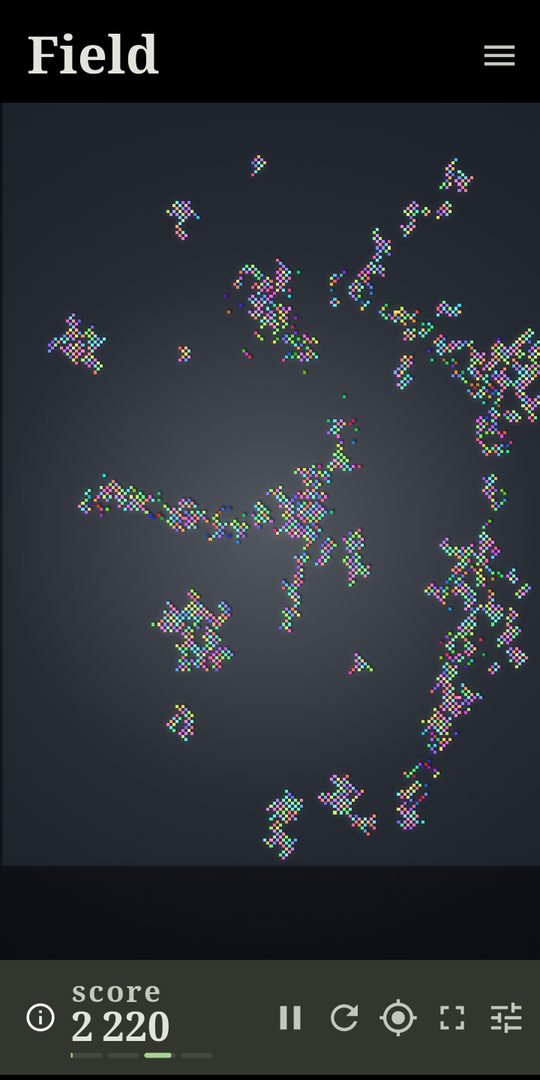
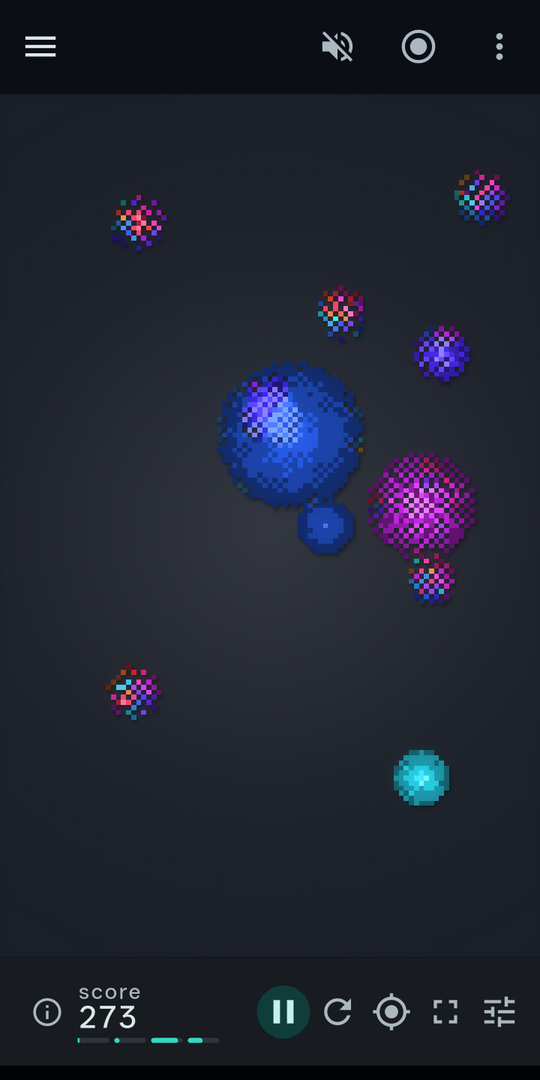
The website, rendered by publish_policy.py
From laminae-console 1737a93 (the privacy policy), laminae-model 0ecf362 (build_site.py: the pages and their styles) and laminae-design-system 714b1e9 (the images).

diff --git a/privacy/index.html b/privacy/index.html
@@ -41,7 +41,8 @@ p, ul, ol { margin: 0 0 14px; }
 .btn.primary:hover { background: var(--ink); color: var(--bg); }
 .feature { display: block; width: 100%; height: auto; border-radius: 14px; border: 1px solid var(--rule); margin: 18px 0 10px; box-shadow: 0 10px 40px rgba(52,216,196,.08); }
 .card { background: var(--panel); border: 1px solid var(--rule); border-left: 4px solid var(--accent, var(--teal)); border-radius: 12px; padding: 18px 20px; margin: 16px 0; }
-.shots { display: grid; grid-template-columns: repeat(auto-fit, minmax(150px, 240px)); gap: 16px; margin: 16px 0; }
+.shots { display: grid; grid-template-columns: repeat(4, 1fr); gap: 16px; margin: 16px 0; }
+@media (max-width: 640px) { .shots { grid-template-columns: repeat(2, 1fr); } }
 .shots img { width: 100%; height: auto; border-radius: 14px; border: 1px solid var(--rule); }
 .badge { display: inline-block; font-size: 13px; font-weight: 650; color: var(--pink); border: 1px solid currentColor; border-radius: 999px; padding: 2px 12px; margin-bottom: 10px; }
 .facts { display: grid; grid-template-columns: repeat(auto-fit, minmax(190px, 1fr)); gap: 12px; margin: 18px 0; padding: 0; list-style: none; }
@@ -84,14 +85,14 @@ footer.site .wrap { display: flex; flex-wrap: wrap; gap: 6px 18px; justify-conte
 <hr>
 <h2>What the microphone is used for</h2>
 <p>This matters more than any other part of the policy, so it is set out in full.</p>
-<p><strong>While the sound is on, the app has the microphone open.</strong> From each short slice of audio it works out four numbers: how loud the slice is, how high its peak is, how much of it is the app's own output coming back through the speaker, and what share of it sits at the notes the field is playing. It does not keep the sound, and it does not keep those numbers.</p>
+<p><strong>While the sound is on, or while you have chosen the microphone to drive the field, the app has the microphone open.</strong> From each short slice of audio it works out four numbers: how loud the slice is, how high its peak is, how much of it is the app's own output coming back through the speaker, and what share of it sits at the notes the field is playing. It does not keep the sound, and it does not keep those numbers.</p>
 <p><strong>Those numbers move the field only if you choose the microphone.</strong> In the field's settings, under <em>Chaos from</em>, the choice starts on <em>The field's own generator</em>. If you choose <em>The microphone</em>, a loud, sharp sound (a clap, a knock, a tap) puts a burst of energy into the field at a random place, in proportion to how hard it was, and the steady change in the room's level acts on the field as a kind of wind. The choice goes back to the field's own generator each time the app starts. While the sound is on and the microphone is not chosen, the microphone is open and nothing from it moves the field.</p>
 <p><strong>The audio check, on the Diagnostics screen, stores the room's loudness.</strong> It runs only when you start it. For the few seconds it runs it plays a test tone and some clicks, and it stores the room's loudness, one number between 0 and 1, sealed, at most once a second. No audio is stored. If no key is available, the check stores nothing rather than store it unsealed.</p>
 <p><strong>A recorded take is different.</strong> If you use the mixer to record, real audio is written to a file. See "Recording, and the plain copy" below.</p>
 <hr>
 <h2>Permissions, and what each one is for</h2>
 <p>These are the permissions the released build declares.</p>
-<table><thead><tr><th>Permission</th><th>What it is for</th><th>What is kept</th><th>Does it go over a network?</th></tr></thead><tbody><tr><td><strong>Microphone</strong> (<code>RECORD_AUDIO</code>)</td><td>To let the room drive the field if you choose it, to run the audio check, and to record a take if you ask for one. You are asked for this the first time you switch the sound on, not when you open the app.</td><td>Nothing, unless you run the audio check (the room's loudness, sealed, while it runs) or record a take.</td><td>No. The app has no network permission.</td></tr><tr><td><strong>Microphone while in the background</strong> (<code>FOREGROUND_SERVICE_MICROPHONE</code>)</td><td>So the sound keeps going while you are in another app or the screen is off. <strong>This means the microphone can be open while Aesthesia is in the background.</strong> It applies only while the sound is on.</td><td>Nothing of its own.</td><td>No.</td></tr><tr><td><strong>Background service</strong> (<code>FOREGROUND_SERVICE</code>, <code>FOREGROUND_SERVICE_SPECIAL_USE</code>)</td><td>To keep the app's one background service running, so the field and its sound carry on when you leave the app, and so a timer you start keeps its times.</td><td>Nothing of its own.</td><td>No.</td></tr><tr><td><strong>Notifications</strong> (<code>POST_NOTIFICATIONS</code>)</td><td>To show the ongoing notification that tells you the service is running. You are asked the first time you open the app (Android 13 and later); if you decline, the service still runs but the notification does not appear. It reads <strong>Listening</strong> while the microphone is open and <strong>Collating</strong> when it is not. It is titled <strong>Aesthesia</strong>, and so is its entry in Android's notification settings.</td><td>Nothing.</td><td>No.</td></tr><tr><td><strong>Fingerprint or screen lock</strong> (<code>USE_BIOMETRIC</code>)</td><td>So Android can confirm it is you before a vault secret is shown. The app never sees your fingerprint, your face or your PIN. Android answers yes or no.</td><td>Nothing.</td><td>No.</td></tr><tr><td><strong>Storage, Android 8 and 9 only</strong> (<code>WRITE_EXTERNAL_STORAGE</code>, capped at SDK 28)</td><td>Only to write a plain <code>.wav</code> copy of a take into the shared Music folder on older phones, and only when you ask for one. Android 10 and later never see this request.</td><td>The <code>.wav</code> file you asked for.</td><td>No.</td></tr></tbody></table>
+<table><thead><tr><th>Permission</th><th>What it is for</th><th>What is kept</th><th>Does it go over a network?</th></tr></thead><tbody><tr><td><strong>Microphone</strong> (<code>RECORD_AUDIO</code>)</td><td>To let the room drive the field if you choose it, to run the audio check, and to record a take if you ask for one. You are asked for this the first time you switch the sound on, not when you open the app.</td><td>Nothing, unless you run the audio check (the room's loudness, sealed, while it runs) or record a take.</td><td>No. The app has no network permission.</td></tr><tr><td><strong>Microphone while in the background</strong> (<code>FOREGROUND_SERVICE_MICROPHONE</code>)</td><td>So the sound keeps going while you are in another app or the screen is off. <strong>This means the microphone can be open while Aesthesia is in the background.</strong> It applies only while the sound is on or the microphone drives the field.</td><td>Nothing of its own.</td><td>No.</td></tr><tr><td><strong>Background service</strong> (<code>FOREGROUND_SERVICE</code>, <code>FOREGROUND_SERVICE_SPECIAL_USE</code>)</td><td>To keep the app's one background service running, so the field and its sound carry on when you leave the app, and so a timer you start keeps its times.</td><td>Nothing of its own.</td><td>No.</td></tr><tr><td><strong>Notifications</strong> (<code>POST_NOTIFICATIONS</code>)</td><td>To show the ongoing notification that tells you the service is running. You are asked the first time you open the app (Android 13 and later); if you decline, the service still runs but the notification does not appear. It reads <strong>Listening</strong> while the microphone is open and <strong>Collating</strong> when it is not. It is titled <strong>Aesthesia</strong>, and so is its entry in Android's notification settings.</td><td>Nothing.</td><td>No.</td></tr><tr><td><strong>Fingerprint or screen lock</strong> (<code>USE_BIOMETRIC</code>)</td><td>So Android can confirm it is you before a vault secret is shown. The app never sees your fingerprint, your face or your PIN. Android answers yes or no.</td><td>Nothing.</td><td>No.</td></tr><tr><td><strong>Storage, Android 8 and 9 only</strong> (<code>WRITE_EXTERNAL_STORAGE</code>, capped at SDK 28)</td><td>Only to write a plain <code>.wav</code> copy of a take into the shared Music folder on older phones, and only when you ask for one. Android 10 and later never see this request.</td><td>The <code>.wav</code> file you asked for.</td><td>No.</td></tr></tbody></table>
 <p>Android also gives the app one permission for its own internal use. It collects nothing.</p>
 <p><strong>No network permission ships in the released app.</strong> The build tool refuses to make a release whose final permission list includes internet access. (Development copies used at a desk carry it, as every project of this kind does; they are never published.)</p>
 <p><strong>Removed from this build, and therefore impossible here:</strong> location, activity recognition, calendar, app-usage statistics, network state, and every Health Connect reading. They belong to the full Laminae Console, which this app is made from, and this build removes them, along with the entries Health Connect uses to reach an app.</p>
@@ -103,12 +104,12 @@ footer.site .wrap { display: flex; flex-wrap: wrap; gap: 6px 18px; justify-conte
 <p><strong>Timers.</strong> If you turn a timer series on (on the <em>What is collected</em> screen) and start a run with the timer command, the app stores three numbers for that run: time elapsed, time remaining and progress. They are a clock you start, not anything about you, so they are kept unsealed. The switch goes back to off each time the app starts. The app's settings are also kept unsealed.</p>
 <hr>
 <h2>Recording, and the plain copy</h2>
-<p>When you record a take in the mixer, the app writes a sealed recording inside its own private folder. That file can only be read with the key on your phone. A take stops by itself after five minutes, and while one is recording the app shows a red dot and the time.</p>
+<p>When you record a take in the mixer, the app writes a sealed recording inside its own private folder. That file can only be read with the key on your phone. A take stops by itself after five minutes, and while one is recording the app shows a recording badge with the time.</p>
 <p>The mixer has a single <strong>plain copy</strong> switch, and it starts off.</p>
-<ul><li>With it <strong>off</strong>, the take exists only in sealed form, and no readable audio is written anywhere.</li><li>With it <strong>on</strong>, the app also writes an ordinary <code>.wav</code> file into your phone's shared <strong>Music/Laminae</strong> collection, so you can find it in a music or files app. That file is not encrypted. A working copy is made while the file is written and is deleted immediately afterwards.</li></ul>
+<ul><li>With it <strong>off</strong>, the take exists only in sealed form. To play a take back, the app writes a temporary readable copy inside its own private folder, which no other app can reach, plays it, and deletes it as soon as playback ends. Nothing is written to shared storage.</li><li>With it <strong>on</strong>, the app also writes an ordinary <code>.wav</code> file into your phone's shared <strong>Music/Laminae</strong> collection, so you can find it in a music or files app. That file is not encrypted. A working copy is made while the file is written and is deleted immediately afterwards.</li></ul>
 <p><strong>What the plain copy means in practice.</strong> Once a <code>.wav</code> is in the shared Music collection it is an ordinary file on your phone:</p>
 <ul><li>any other app that has permission to read audio or media can read it;</li><li>any cloud-sync, file-manager or backup app you have installed can copy it off the phone;</li><li>it stays on the phone if you uninstall Aesthesia or clear its data.</li></ul>
-<p>Aesthesia having no internet permission does not limit what the rest of your phone does with that file. If you would rather nothing readable existed, leave the plain copy switch off.</p>
+<p>Aesthesia having no internet permission does not limit what the rest of your phone does with that file. If you would rather no readable copy existed outside the app, leave the plain copy switch off.</p>
 <p><strong>Other people's voices.</strong> A recording made in a shared room may capture other people. Aesthesia does not know who is in the room and cannot ask them. If you record other people, it is for you to tell them and to handle the recording accordingly.</p>
 <hr>
 <h2>Controlling the app from a computer, in this test build</h2>

diff --git a/index.html b/index.html
@@ -41,7 +41,8 @@ p, ul, ol { margin: 0 0 14px; }
 .btn.primary:hover { background: var(--ink); color: var(--bg); }
 .feature { display: block; width: 100%; height: auto; border-radius: 14px; border: 1px solid var(--rule); margin: 18px 0 10px; box-shadow: 0 10px 40px rgba(52,216,196,.08); }
 .card { background: var(--panel); border: 1px solid var(--rule); border-left: 4px solid var(--accent, var(--teal)); border-radius: 12px; padding: 18px 20px; margin: 16px 0; }
-.shots { display: grid; grid-template-columns: repeat(auto-fit, minmax(150px, 240px)); gap: 16px; margin: 16px 0; }
+.shots { display: grid; grid-template-columns: repeat(4, 1fr); gap: 16px; margin: 16px 0; }
+@media (max-width: 640px) { .shots { grid-template-columns: repeat(2, 1fr); } }
 .shots img { width: 100%; height: auto; border-radius: 14px; border: 1px solid var(--rule); }
 .badge { display: inline-block; font-size: 13px; font-weight: 650; color: var(--pink); border: 1px solid currentColor; border-radius: 999px; padding: 2px 12px; margin-bottom: 10px; }
 .facts { display: grid; grid-template-columns: repeat(auto-fit, minmax(190px, 1fr)); gap: 12px; margin: 18px 0; padding: 0; list-style: none; }
@@ -84,8 +85,10 @@ Your finger drives the field, and the sound in the room can too, if you choose t
 seen.</p>
 <img class="feature" src="assets/aesthesia-feature.png" width="1024" height="500" alt="Aesthesia: the app's icon and name beside a field of small coloured cells forming shapes">
 <div class="shots">
-<img src="assets/aesthesia-phone-1.png" width="540" height="1080" alt="Aesthesia's field screen: clusters of coloured cells on a dark field, with the controls below" loading="lazy">
-<img src="assets/aesthesia-phone-2.png" width="540" height="1080" alt="The field a few seconds later, its shapes moved" loading="lazy">
+<img src="assets/aesthesia-phone-1.png" width="540" height="1080" alt="Aesthesia&#x27;s field screen: clusters of coloured cells on a dark field, with the controls below" loading="lazy">
+<img src="assets/aesthesia-phone-2.png" width="540" height="1080" alt="The field later: a large cluster coming apart into smaller shapes" loading="lazy">
+<img src="assets/aesthesia-phone-3.png" width="540" height="1080" alt="The Sound sheet: the microphone chosen to drive the field, and the dials that keep the app from hearing itself" loading="lazy">
+<img src="assets/aesthesia-phone-4.png" width="540" height="1080" alt="The Mixer: four channels with a level each, a master, and takes" loading="lazy">
 </div>
 <ul class="facts">
 <li><b>No internet permission</b>It can't send anything anywhere.</li>
